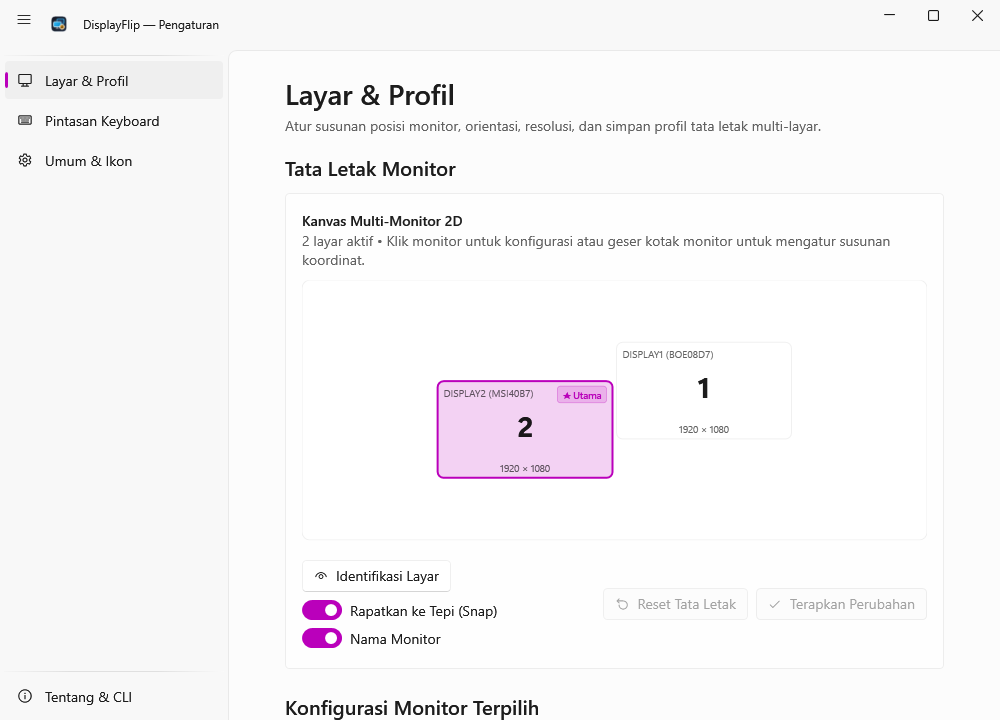
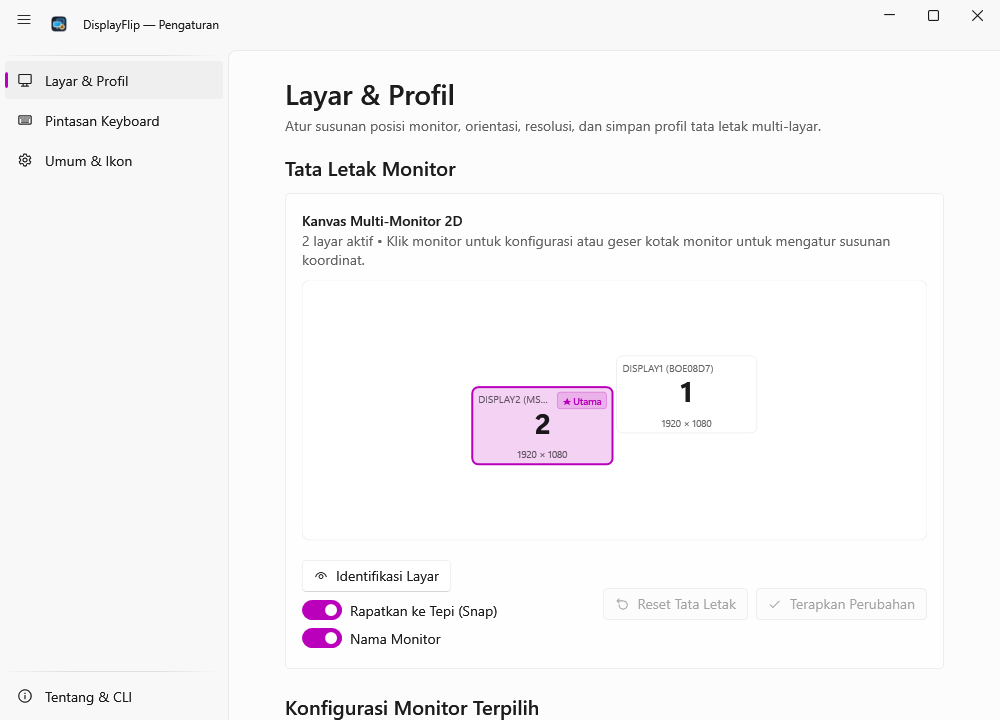
fix(wpf): calibrate canvas viewport margins to prevent snap preview overlap, guard CCD concurrency, and refresh UI screenshots

Changed region(s): [[0.434, 0.5194, 0.62, 0.6722], [0.62, 0.4889, 0.713, 0.55], [0.651, 0.5806, 0.744, 0.6111]]

diff --git a/src/DisplayFlip.Wpf/Controls/MonitorCanvasControl.cs b/src/DisplayFlip.Wpf/Controls/MonitorCanvasControl.cs
@@ -113,6 +113,93 @@ public sealed class MonitorCanvasControl : FrameworkElement
     public string? DraggingKey => _draggingKey;
     public Position DragRawDesktopPos => _dragRawDesktopPos;
     public Position DragSnappedDesktopPos => _dragSnappedDesktopPos;
+    public int GuideLinesCount => _guideLines.Count;
+    public IReadOnlyList<(Point Start, Point End)> GuideLines => _guideLines;
+
+    public Rect GetGhostPreviewRect(double canvasW, double canvasH)
+    {
+        var monitors = Monitors;
+        if (!_isDragging || _draggingKey == null || monitors == null || monitors.Count == 0)
+            return Rect.Empty;
+
+        var draggedMon = monitors.FirstOrDefault(m => m.StableKey == _draggingKey);
+        if (draggedMon == null)
+            return Rect.Empty;
+
+        int minX = monitors.Min(m => m.Position.X);
+        int minY = monitors.Min(m => m.Position.Y);
+        int maxR = monitors.Max(m => m.Position.Right);
+        int maxB = monitors.Max(m => m.Position.Bottom);
+        double totalW = Math.Max(1, maxR - minX);
+        double totalH = Math.Max(1, maxB - minY);
+
+        double padX = 24;
+        double padY = 20;
+        double availW = Math.Max(10, canvasW - padX * 2);
+        double availH = Math.Max(10, canvasH - padY * 2);
+
+        double maxW = monitors.Max(m => (double)m.Position.Width);
+        double maxH = monitors.Max(m => (double)m.Position.Height);
+        double viewW = totalW + maxW * 2.0;
+        double viewH = totalH + maxH * 0.9;
+        double scale = Math.Max(0.005, Math.Min(availW / viewW, availH / viewH));
+
+        double drawnW = totalW * scale;
+        double drawnH = totalH * scale;
+        double offsetX = padX + (availW - drawnW) / 2;
+        double offsetY = padY + (availH - drawnH) / 2;
+
+        double fw = Math.Max(56, draggedMon.Position.Width * scale - 4);
+        double fh = Math.Max(40, draggedMon.Position.Height * scale - 4);
+
+        double sx = offsetX + (_dragSnappedDesktopPos.X - minX) * scale + 2;
+        double sy = offsetY + (_dragSnappedDesktopPos.Y - minY) * scale + 2;
+        double clampedSx = Math.Clamp(sx, 4, Math.Max(4, canvasW - fw - 4));
+        double clampedSy = Math.Clamp(sy, 4, Math.Max(4, canvasH - fh - 4));
+
+        return new Rect(clampedSx, clampedSy, fw, fh);
+    }
+
+    public Rect GetTileRect(string stableKey, double canvasW, double canvasH)
+    {
+        var monitors = Monitors;
+        if (monitors == null || monitors.Count == 0)
+            return Rect.Empty;
+
+        var m = monitors.FirstOrDefault(mon => mon.StableKey == stableKey);
+        if (m == null)
+            return Rect.Empty;
+
+        int minX = monitors.Min(mon => mon.Position.X);
+        int minY = monitors.Min(mon => mon.Position.Y);
+        int maxR = monitors.Max(mon => mon.Position.Right);
+        int maxB = monitors.Max(mon => mon.Position.Bottom);
+        double totalW = Math.Max(1, maxR - minX);
+        double totalH = Math.Max(1, maxB - minY);
+
+        double padX = 24;
+        double padY = 20;
+        double availW = Math.Max(10, canvasW - padX * 2);
+        double availH = Math.Max(10, canvasH - padY * 2);
+
+        double maxW = monitors.Max(mon => (double)mon.Position.Width);
+        double maxH = monitors.Max(mon => (double)mon.Position.Height);
+        double viewW = totalW + maxW * 2.0;
+        double viewH = totalH + maxH * 0.9;
+        double scale = Math.Max(0.005, Math.Min(availW / viewW, availH / viewH));
+
+        double drawnW = totalW * scale;
+        double drawnH = totalH * scale;
+        double offsetX = padX + (availW - drawnW) / 2;
+        double offsetY = padY + (availH - drawnH) / 2;
+
+        double x = offsetX + (m.Position.X - minX) * scale;
+        double y = offsetY + (m.Position.Y - minY) * scale;
+        double mw = Math.Max(56, m.Position.Width * scale - 4);
+        double mh = Math.Max(40, m.Position.Height * scale - 4);
+
+        return new Rect(x + 2, y + 2, mw, mh);
+    }
 
     public MonitorCanvasControl()
     {
@@ -209,10 +296,10 @@ public sealed class MonitorCanvasControl : FrameworkElement
         double availW = Math.Max(10, w - padX * 2);
         double availH = Math.Max(10, h - padY * 2);
 
-        double avgW = monitors.Average(m => (double)m.Position.Width);
-        double avgH = monitors.Average(m => (double)m.Position.Height);
-        double viewW = totalW + avgW * 0.8;
-        double viewH = totalH + avgH * 0.8;
+        double maxW = monitors.Max(m => (double)m.Position.Width);
+        double maxH = monitors.Max(m => (double)m.Position.Height);
+        double viewW = totalW + maxW * 2.0;
+        double viewH = totalH + maxH * 0.9;
         double scale = Math.Max(0.005, Math.Min(availW / viewW, availH / viewH));
 
         double drawnW = totalW * scale;
@@ -255,7 +342,9 @@ public sealed class MonitorCanvasControl : FrameworkElement
 
             foreach (var (p1, p2) in _guideLines)
             {
-                dc.DrawLine(guidePen, p1, p2);
+                var cp1 = new Point(Math.Clamp(p1.X, 2, Math.Max(2, w - 2)), Math.Clamp(p1.Y, 2, Math.Max(2, h - 2)));
+                var cp2 = new Point(Math.Clamp(p2.X, 2, Math.Max(2, w - 2)), Math.Clamp(p2.Y, 2, Math.Max(2, h - 2)));
+                dc.DrawLine(guidePen, cp1, cp2);
             }
         }
 
@@ -358,7 +447,7 @@ public sealed class MonitorCanvasControl : FrameworkElement
         dc.DrawRoundedRectangle(tileFill, tilePen, rect, 6, 6);
 
         // Center Display Number
-        bool isCompact = rect.Width < 80 || rect.Height < 60;
+        bool isCompact = rect.Width < 80 || rect.Height < 54;
         double numFontSize = isCompact ? 18 : 28;
         var numTypeface = new Typeface(new FontFamily("Segoe UI Variable Display, Segoe UI"), FontStyles.Normal, FontWeights.Bold, FontStretches.Normal);
         var numText = new FormattedText(
@@ -731,6 +820,26 @@ public sealed class MonitorCanvasControl : FrameworkElement
             if (sp.Y + sp.Height / 2 == ap.Y + ap.Height / 2)
             {
                 double y = _lastOffsetY + (sp.Y + sp.Height / 2.0 - _lastMinY) * scale;
+                double x1 = _lastOffsetX + (Math.Min(sp.X, ap.X) - _lastMinX) * scale;
+                double x2 = _lastOffsetX + (Math.Max(sp.Right, ap.Right) - _lastMinX) * scale;
+                _guideLines.Add((new Point(x1 - 8, y), new Point(x2 + 8, y)));
+            }
+
+            // Abutting horizontal seam (left to right or right to left)
+            if (sp.Right == ap.X || sp.X == ap.Right)
+            {
+                int seamX = sp.Right == ap.X ? ap.X : sp.X;
+                double x = _lastOffsetX + (seamX - _lastMinX) * scale;
+                double y1 = _lastOffsetY + (Math.Min(sp.Y, ap.Y) - _lastMinY) * scale;
+                double y2 = _lastOffsetY + (Math.Max(sp.Bottom, ap.Bottom) - _lastMinY) * scale;
+                _guideLines.Add((new Point(x, y1 - 8), new Point(x, y2 + 8)));
+            }
+
+            // Abutting vertical seam (top to bottom or bottom to top)
+            if (sp.Bottom == ap.Y || sp.Y == ap.Bottom)
+            {
+                int seamY = sp.Bottom == ap.Y ? ap.Y : sp.Y;
+                double y = _lastOffsetY + (seamY - _lastMinY) * scale;
                 double x1 = _lastOffsetX + (Math.Min(sp.X, ap.X) - _lastMinX) * scale;
                 double x2 = _lastOffsetX + (Math.Max(sp.Right, ap.Right) - _lastMinX) * scale;
                 _guideLines.Add((new Point(x1 - 8, y), new Point(x2 + 8, y)));

diff --git a/src/DisplayFlip.Tests/WpfCanvasDragAndE2ETests.cs b/src/DisplayFlip.Tests/WpfCanvasDragAndE2ETests.cs
@@ -314,6 +314,120 @@ public class WpfCanvasDragAndE2ETests
         });
     }
 
+    [Fact]
+    public void CanvasDrag_GhostSnapPreview_DoesNotOverlapStationaryMonitorWhenDraggedLeft()
+    {
+        ExecuteOnSta(() =>
+        {
+            var monitors = CreateDualMonitors();
+            var canvas = new MonitorCanvasControl
+            {
+                Monitors = monitors,
+                SelectedMonitorKey = "MON2",
+                PrimaryMonitorKey = "MON1",
+                IsSnapEnabled = true
+            };
+
+            // Start dragging MON2 and drag it far to the left of MON1
+            canvas.StartDrag("MON2", new Point(300, 100));
+            canvas.UpdateDrag(new Point(50, 100)); // Dragged 250px left
+
+            double canvasW = 800;
+            double canvasH = 260;
+
+            // Compute ghost preview rectangle and MON1 stationary rectangle
+            var ghostRect = canvas.GetGhostPreviewRect(canvasW, canvasH);
+            var mon1Rect = canvas.GetTileRect("MON1", canvasW, canvasH);
+
+            ghostRect.Should().NotBe(Rect.Empty);
+            mon1Rect.Should().NotBe(Rect.Empty);
+
+            // Snapped target should be adjacent to the left of MON1
+            canvas.DragSnappedDesktopPos.X.Should().Be(-1920);
+
+            // Visual ghost box must NOT be clipped off screen (X >= 4)
+            ghostRect.X.Should().BeGreaterOrEqualTo(4, "Ghost preview must not be clipped off the left canvas boundary");
+
+            // Visual ghost box right edge must NOT overlap MON1 left edge
+            ghostRect.Right.Should().BeLessThanOrEqualTo(mon1Rect.X + 0.5, "Ghost preview must sit adjacent to MON1 without overlapping it");
+        });
+    }
+
+    [Fact]
+    public void CanvasDrag_AlignmentGuides_GeneratedForAbuttingSeamsAndWithinCanvasBounds()
+    {
+        ExecuteOnSta(() =>
+        {
+            var monitors = CreateDualMonitors();
+            var canvas = new MonitorCanvasControl
+            {
+                Monitors = monitors,
+                SelectedMonitorKey = "MON2",
+                PrimaryMonitorKey = "MON1",
+                IsSnapEnabled = true
+            };
+
+            canvas.StartDrag("MON2", new Point(200, 100));
+            // Move MON2 to snap right adjacent to MON1
+            canvas.UpdateDrag(new Point(205, 100));
+
+            // Guidelines should be computed
+            canvas.GuideLinesCount.Should().BeGreaterThan(0, "Magnetic snapping should generate alignment guidelines");
+
+            double canvasW = 800;
+            double canvasH = 260;
+            foreach (var (p1, p2) in canvas.GuideLines)
+            {
+                p1.X.Should().BeInRange(-100, canvasW + 100);
+                p2.X.Should().BeInRange(-100, canvasW + 100);
+                p1.Y.Should().BeInRange(-100, canvasH + 100);
+                p2.Y.Should().BeInRange(-100, canvasH + 100);
+            }
+        });
+    }
+
+    [Fact]
+    public void CanvasDrag_4KAnd8KNonLinearSetup_AccommodatesMassiveDisplaysWithoutClipping()
+    {
+        ExecuteOnSta(() =>
+        {
+            var mon4k = new DisplayMonitor(
+                StableKey: "MON_4K",
+                FriendlyName: "4K Primary",
+                Position: new Position(0, 0, 3840, 2160),
+                ResolutionWidth: 3840,
+                ResolutionHeight: 2160,
+                Orientation: CoreOrientation.Landscape,
+                IsEnabled: true);
+
+            var mon8k = new DisplayMonitor(
+                StableKey: "MON_8K",
+                FriendlyName: "8K Secondary",
+                Position: new Position(3840, 0, 7680, 4320),
+                ResolutionWidth: 7680,
+                ResolutionHeight: 4320,
+                Orientation: CoreOrientation.Landscape,
+                IsEnabled: true);
+
+            var canvas = new MonitorCanvasControl
+            {
+                Monitors = new List<DisplayMonitor> { mon4k, mon8k },
+                SelectedMonitorKey = "MON_8K",
+                PrimaryMonitorKey = "MON_4K",
+                IsSnapEnabled = true
+            };
+
+            canvas.StartDrag("MON_8K", new Point(400, 150));
+            canvas.UpdateDrag(new Point(100, 150));
+
+            var ghostRect = canvas.GetGhostPreviewRect(800, 260);
+            ghostRect.Should().NotBe(Rect.Empty);
+            ghostRect.X.Should().BeGreaterOrEqualTo(4);
+            ghostRect.Width.Should().BeGreaterThan(50);
+            ghostRect.Height.Should().BeGreaterThan(40);
+        });
+    }
+
     private static void ExecuteOnSta(Action action)
     {
         Exception? caught = null;

diff --git a/src/DisplayFlip.Wpf/Views/Pages/DisplaysPage.xaml.cs b/src/DisplayFlip.Wpf/Views/Pages/DisplaysPage.xaml.cs
@@ -1,5 +1,6 @@
 using System.Windows;
 using System.Windows.Controls;
+using System.Windows.Media;
 using DisplayFlip.Core;
 using DisplayFlip.UI.Helpers;
 using DisplayFlip.UI.Services;
@@ -26,6 +27,7 @@ public partial class DisplaysPage : Page
     private string? _selectedMonitorKey;
     private bool _hasUnappliedChanges;
     private bool _isUpdatingUi;
+    private bool _isApplyingArrangement;
 
     public DisplaysPage()
     {
@@ -77,6 +79,7 @@ public partial class DisplaysPage : Page
             MonitorCanvas.PrimaryMonitorKey = _primaryMonitorKey;
             MonitorCanvas.SelectedMonitorKey = _selectedMonitorKey;
             MonitorCanvas.IsSnapEnabled = ToggleSnap.IsChecked == true;
+            MonitorCanvas.ShowMonitorNames = ToggleMonitorNames?.IsChecked == true;
 
             BtnApply.IsEnabled = _hasUnappliedChanges;
             BtnReset.IsEnabled = _hasUnappliedChanges;
@@ -172,7 +175,7 @@ public partial class DisplaysPage : Page
         base.OnPreviewKeyDown(e);
         if (e.Key is System.Windows.Input.Key.Left or System.Windows.Input.Key.Right or System.Windows.Input.Key.Up or System.Windows.Input.Key.Down)
         {
-            if (System.Windows.Input.Keyboard.FocusedElement is not ComboBox && System.Windows.Input.Keyboard.FocusedElement is not System.Windows.Controls.TextBox)
+            if (!IsTextInputOrComboFocused())
             {
                 if (MonitorCanvas != null && MonitorCanvas.Nudge(e.Key))
                 {
@@ -182,28 +185,63 @@ public partial class DisplaysPage : Page
         }
     }
 
+    private static bool IsTextInputOrComboFocused()
+    {
+        var focused = System.Windows.Input.Keyboard.FocusedElement;
+        if (focused == null) return false;
+        if (focused is System.Windows.Controls.TextBox || focused is Wpf.Ui.Controls.TextBox ||
+            focused is System.Windows.Controls.ComboBox || focused is System.Windows.Controls.ComboBoxItem ||
+            focused is System.Windows.Controls.Primitives.TextBoxBase)
+        {
+            return true;
+        }
+
+        if (focused is DependencyObject d)
+        {
+            var parent = VisualTreeHelper.GetParent(d);
+            while (parent != null)
+            {
+                if (parent is System.Windows.Controls.ComboBox || parent is System.Windows.Controls.TextBox)
+                    return true;
+                parent = VisualTreeHelper.GetParent(parent);
+            }
+        }
+        return false;
+    }
+
     private async void OnCanvasArrangementChanged(object? sender, IReadOnlyList<DisplayMonitor> newArrangement)
     {
         _canvasMonitors = newArrangement.ToList();
         bool autoApply = GeneralHelper.GetAutoApplyDrag(_store);
         if (autoApply)
         {
-            _hasUnappliedChanges = false;
-            UpdateUiFromState();
-            BtnApply.IsEnabled = false;
-            BtnReset.IsEnabled = false;
-            var (ok, msg) = await Task.Run(() => _adapter.ApplyArrangement(_canvasMonitors, _primaryMonitorKey));
-            if (ok)
+            if (_isApplyingArrangement)
+                return;
+
+            _isApplyingArrangement = true;
+            try
             {
-                await Task.Delay(150);
-                RefreshMonitorsFromSystem();
-                ShowInfoBar("Susunan Diterapkan Otomatis", "Susunan posisi monitor berhasil langsung diterapkan ke sistem Windows.", InfoBarSeverity.Success);
-            }
-            else
-            {
-                _hasUnappliedChanges = true;
+                _hasUnappliedChanges = false;
                 UpdateUiFromState();
-                ShowInfoBar("Gagal Menerapkan Susunan", msg, InfoBarSeverity.Error);
+                BtnApply.IsEnabled = false;
+                BtnReset.IsEnabled = false;
+                var (ok, msg) = await Task.Run(() => _adapter.ApplyArrangement(_canvasMonitors, _primaryMonitorKey));
+                if (ok)
+                {
+                    await Task.Delay(150);
+                    RefreshMonitorsFromSystem();
+                    ShowInfoBar("Susunan Diterapkan Otomatis", "Susunan posisi monitor berhasil langsung diterapkan ke sistem Windows.", InfoBarSeverity.Success);
+                }
+                else
+                {
+                    _hasUnappliedChanges = true;
+                    UpdateUiFromState();
+                    ShowInfoBar("Gagal Menerapkan Susunan", msg, InfoBarSeverity.Error);
+                }
+            }
+            finally
+            {
+                _isApplyingArrangement = false;
             }
         }
         else
